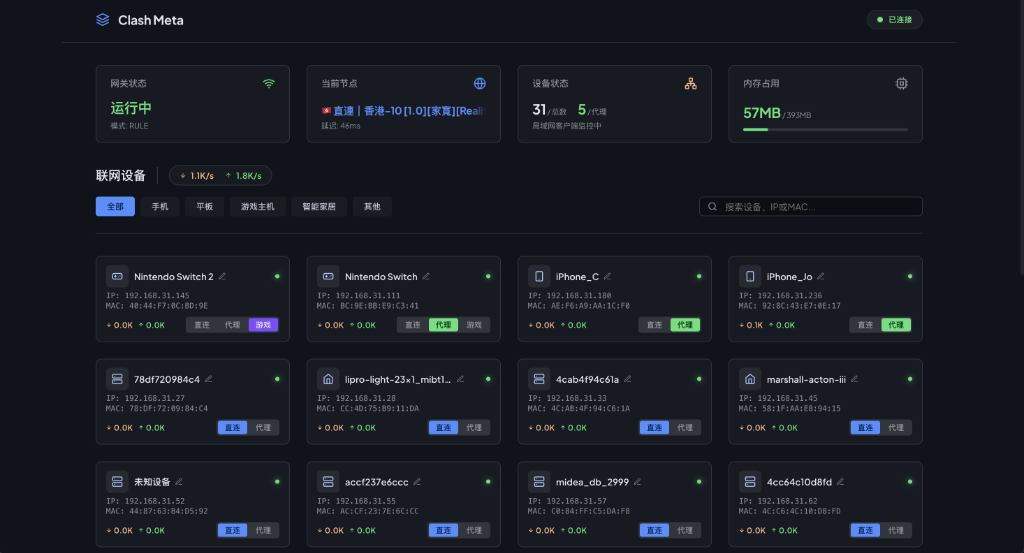
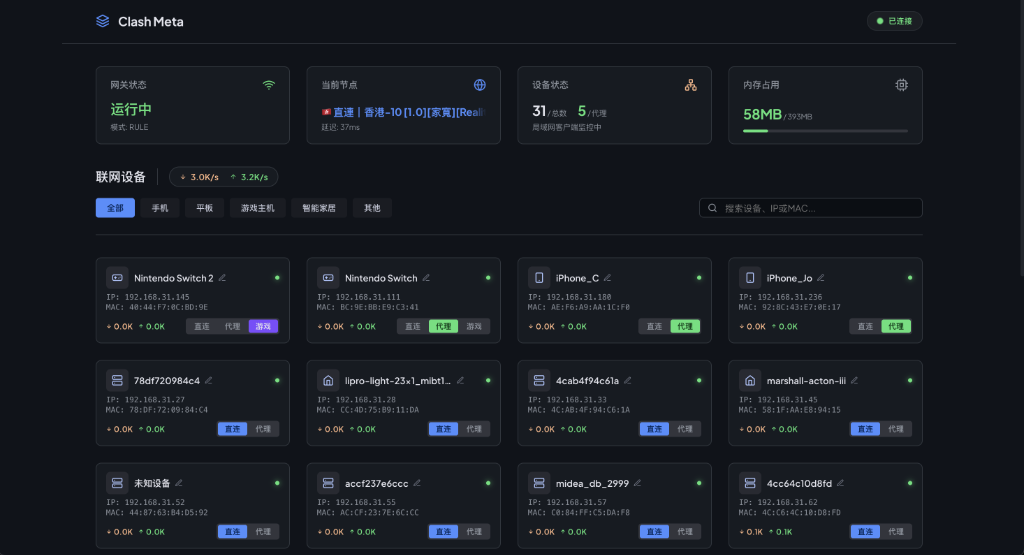
docs: 替换为高清版预览图并调整排版为左右并排、高度一致

diff --git a/README.md b/README.md
@@ -2,10 +2,9 @@
 > 家用路由器 Clash (Mihomo) 网页端设备分流与游戏加速管理器
 
 <div align="center">
-  <img src="docs/images/web_preview.png" width="800" alt="Web Preview" />
-  <br />
-  <br />
-  <img src="docs/images/mobile_preview.jpg" width="280" alt="Mobile Preview" />
+  <img src="docs/images/mobile_preview.jpg" height="360" alt="Mobile Preview" />
+  &nbsp;&nbsp;&nbsp;&nbsp;&nbsp;&nbsp;&nbsp;&nbsp;
+  <img src="docs/images/web_preview.png" height="360" alt="Web Preview" />
 </div>
 
 **Clash Meta** 是一款专为家用/软路由环境打造的 Clash (Mihomo) 辅助控制台。它通过一个极简、直观的 Web 界面，让你免去繁琐的命令行操作，即可远程管理局域网内每个设备的上网状态，并针对主机游戏（如 Switch）联机体验提供了深度优化。